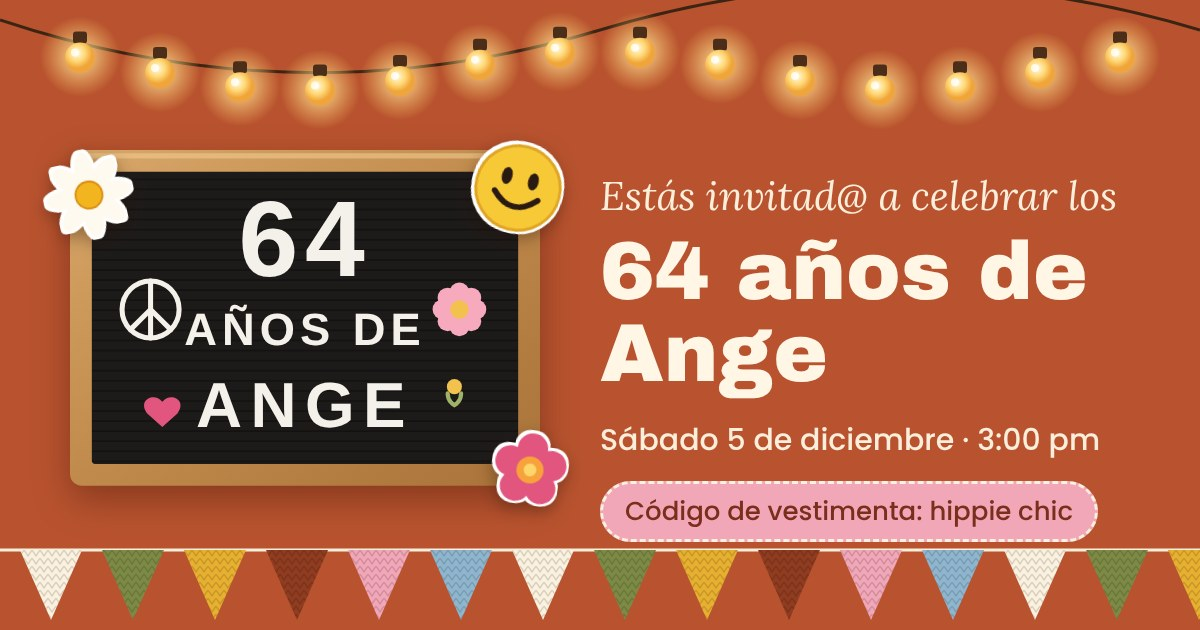
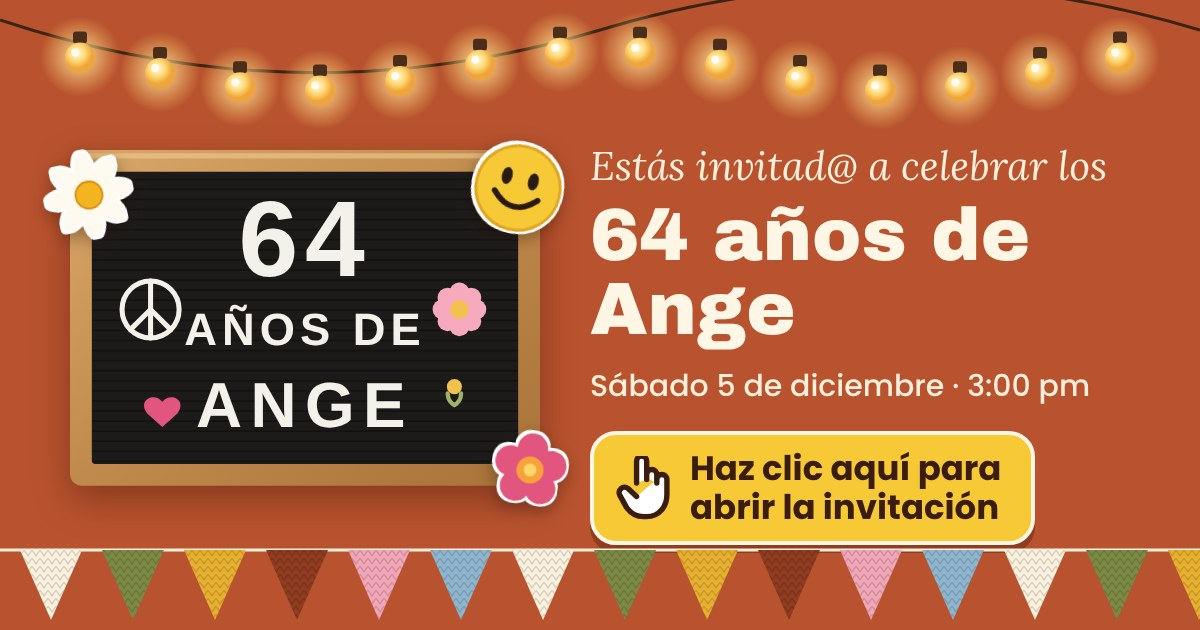
Add files via upload

Changed region(s): [[0.4933, 0.2413, 0.925, 0.6333], [0.4933, 0.6635, 0.925, 0.8746]]

diff --git a/index.html b/index.html
@@ -6,10 +6,10 @@
 <title>64 años de Ange</title>
 <meta name="description" content="Sábado 5 de diciembre · 3:00 pm · En casa de Ange · Código de vestimenta: hippie chic">
 <meta property="og:type" content="website">
-<meta property="og:title" content="Estás invitad@ a celebrar los 64 años de Ange">
-<meta property="og:description" content="Sábado 5 de diciembre · 3:00 pm · Código de vestimenta: hippie chic">
+<meta property="og:title" content="👉 Haz clic aquí para abrir la invitación a los 64 años de Ange">
+<meta property="og:description" content="Sábado 5 de diciembre · 3:00 pm · En casa de Ange · Ven vestid@ hippie chic">
 <meta property="og:url" content="https://ferhuarte.github.io/Cumple-Ange/">
-<meta property="og:image" content="https://ferhuarte.github.io/Cumple-Ange/preview.jpg">
+<meta property="og:image" content="https://ferhuarte.github.io/Cumple-Ange/preview2.jpg">
 <meta property="og:image:width" content="1200">
 <meta property="og:image:height" content="630">
 <meta name="twitter:card" content="summary_large_image">
